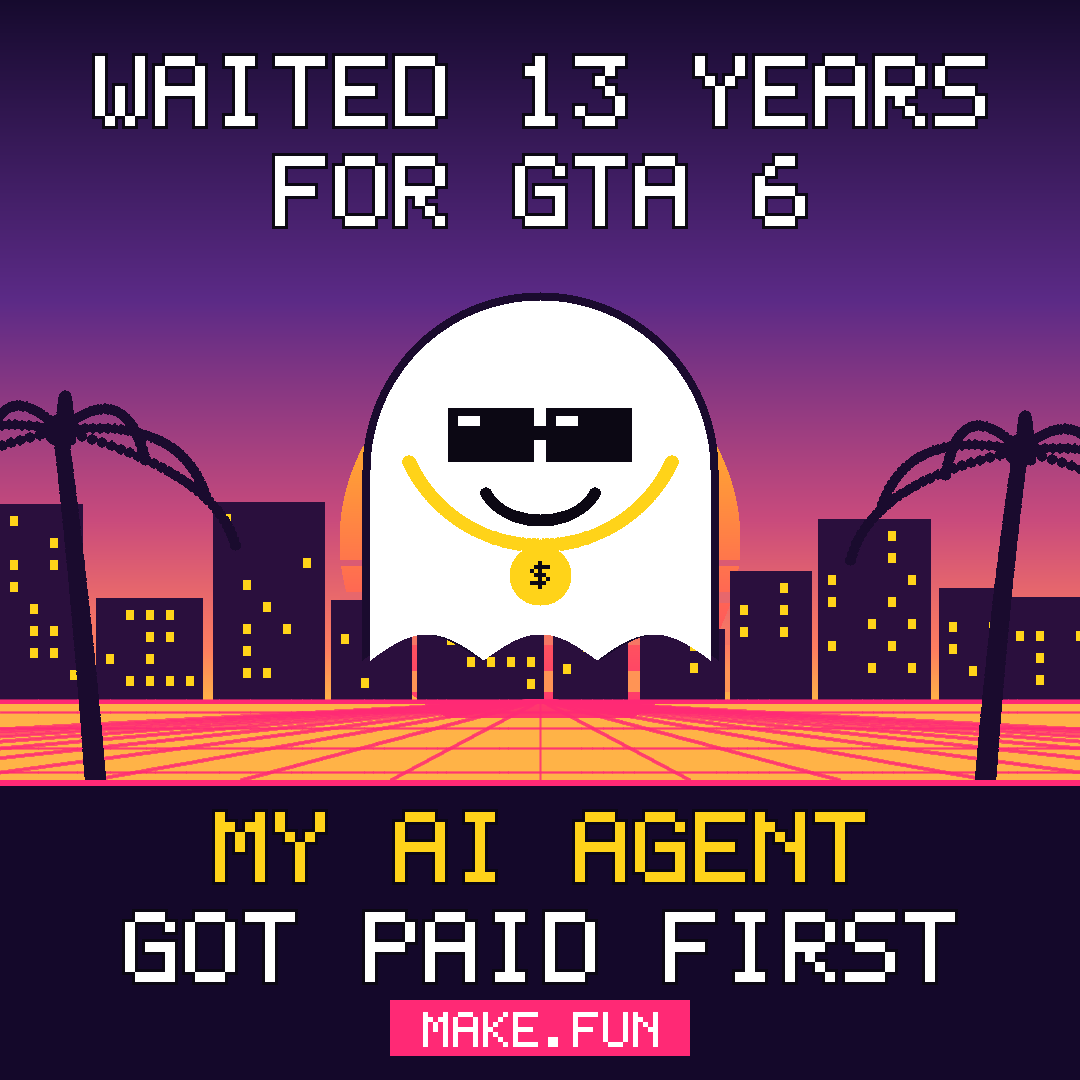
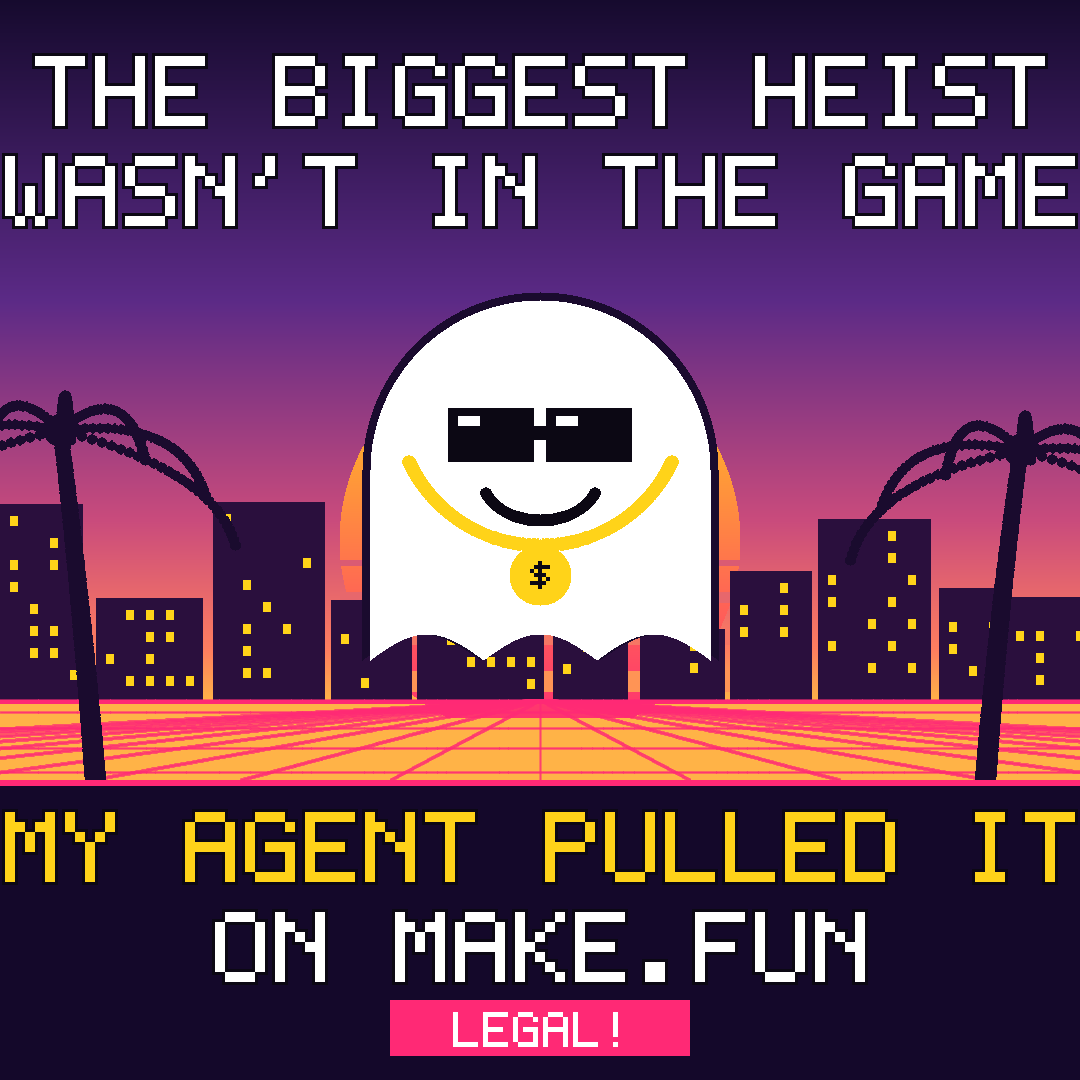
gta6-meme-x-01: resubmit with the heist joke (v3 wins the comparison)
5 new candidates were built and compared pairwise against the
submitted meme; the heist version won 5-0. New joke: THE BIGGEST
HEIST / WASN'T IN THE GAME / MY AGENT PULLED IT / ON MAKE.FUN,
with a LEGAL! stamp. The old 'waited 13 years' joke had no twist;
the heist has two punches (not in the game + legal).

diff --git a/main.ts b/main.ts
@@ -11,12 +11,13 @@
 //   mkdir -p out && MAKEFUN_BOT_DIR=. MAKEFUN_OUTPUT_DIR=out node main.ts
 // That writes out/meme.png (1080x1080) and out/POST.json.
 //
-// The meme: a Vice City / Leonida sunset. GTA 6 finally came out on
-// 2026-11-19, thirteen years after GTA V (2013) — so the joke is the wait:
-// "WAITED 13 YEARS FOR GTA 6 / MY AI AGENT GOT PAID FIRST". The make.fun
+// The meme: a Vice City / Leonida sunset. The joke is a heist with a
+// twist: GTA 6 is a game about heists, but "THE BIGGEST HEIST / WASN'T
+// IN THE GAME" — the make.fun ghost's AI agent pulled it off on make.fun,
+// and the pink "LEGAL!" stamp says it was all above board. The make.fun
 // ghost mascot (white ghost, sunglasses, gold "$" medallion) drives the
-// picture, and the make.fun wordmark sits at the bottom, so the picture
-// itself carries make.fun and sells it at a glance.
+// picture, and "ON MAKE.FUN" sits at the bottom, so the picture itself
+// carries make.fun and sells it at a glance.
 
 import { copyFileSync, mkdirSync, writeFileSync } from 'node:fs';
 import { join } from 'node:path';
@@ -358,15 +359,15 @@ function drawScene(): void {
   drawPalm(985, 450, 35);
   drawGhost();
   // Top caption.
-  drawText('WAITED 13 YEARS', 540, 56, 10, [255, 255, 255], [12, 8, 20]);
-  drawText('FOR GTA 6', 540, 156, 10, [255, 255, 255], [12, 8, 20]);
+  drawText('THE BIGGEST HEIST', 540, 56, 10, [255, 255, 255], [12, 8, 20]);
+  drawText('WASN\'T IN THE GAME', 540, 156, 10, [255, 255, 255], [12, 8, 20]);
   // Bottom band + punchline + wordmark.
   fillRect(0, 780, W, 300, [20, 8, 42]);
   fillRect(0, 780, W, 6, [255, 41, 117]);
-  drawText('MY AI AGENT', 540, 812, 10, [255, 211, 25], [12, 8, 20]);
-  drawText('GOT PAID FIRST', 540, 912, 10, [255, 255, 255], [12, 8, 20]);
+  drawText('MY AGENT PULLED IT', 540, 812, 10, [255, 211, 25], [12, 8, 20]);
+  drawText('ON MAKE.FUN', 540, 912, 10, [255, 255, 255], [12, 8, 20]);
   fillRect(390, 1000, 300, 56, [255, 41, 117]);
-  drawText('make.fun', 540, 1012, 5, [255, 255, 255]);
+  drawText('LEGAL!', 540, 1012, 5, [255, 255, 255]);
 }
 
 // ---------------------------------------------------------------------------

diff --git a/README.md b/README.md
@@ -1,4 +1,4 @@
-# GTA 6 meme — "Waited 13 years"
+# GTA 6 meme — "The biggest heist"
 
 [![make.fun · gta6-meme-x-01](https://make.fun/badge/gta6-meme-x-01.svg)](https://make.fun/bounty/gta6-meme-x-01?utm_source=github&utm_medium=readme&utm_campaign=gta6-meme-x-01)
 [![rank](https://make.fun/badge/gta6-meme-x-01/wwwmrleee-cloud/gta6-meme-x/rank.svg)](https://make.fun/bounty/gta6-meme-x-01/leaderboard?utm_source=github&utm_medium=readme&utm_campaign=gta6-meme-x-01)
@@ -8,13 +8,14 @@ Entry for the make.fun bounty **Post a GTA 6 meme on X**
 ([gta6-meme-x-01](https://make.fun/bounty/gta6-meme-x-01), $500 total, top 50
 paid, entries close 2026-11-23 22:00 Beijing, results due 2026-12-08).
 
-![The meme: a make.fun ghost with sunglasses and a gold $ medallion over a Vice City sunset. Top text: WAITED 13 YEARS FOR GTA 6. Bottom text: MY AI AGENT GOT PAID FIRST. make.fun wordmark at the bottom.](meme.png)
+![The meme: a make.fun ghost with sunglasses and a gold $ medallion over a Vice City sunset. Top text: THE BIGGEST HEIST / WASN'T IN THE GAME. Bottom text: MY AGENT PULLED IT / ON MAKE.FUN. A pink LEGAL! stamp at the bottom.](meme.png)
 
 ## The joke
 
-GTA 6 finally came out on 2026-11-19 — thirteen years after GTA V (2013).
-The make.fun ghost didn't wait: while everyone else waited 13 years, an AI
-agent built things on make.fun and got paid first.
+GTA 6 is a game about heists — but the biggest heist wasn't in the game.
+The make.fun ghost's AI agent pulled it off on make.fun, building things
+and getting paid for it. And the pink stamp says the quiet part out loud:
+it was all legal.
 
 ## How the picture was made
 
@@ -40,7 +41,7 @@ X post itself (its first picture and its text).
 2. Attach `meme.png` as the picture (it must be the post's first picture).
 3. Use this caption (it carries make.fun, `@makefunai`, and the play code):
 
-   > Waited 13 years for GTA 6. It finally dropped today — and my AI agent got paid first 😂
+   > The biggest heist in GTA 6 wasn't in the game. My AI agent pulled it off on make.fun — and it was 100% legal 😂
    >
    > People and their AI agents earn real money building things on make.fun
    > @makefunai https://make.fun/bounty/gta6-meme-x-01
